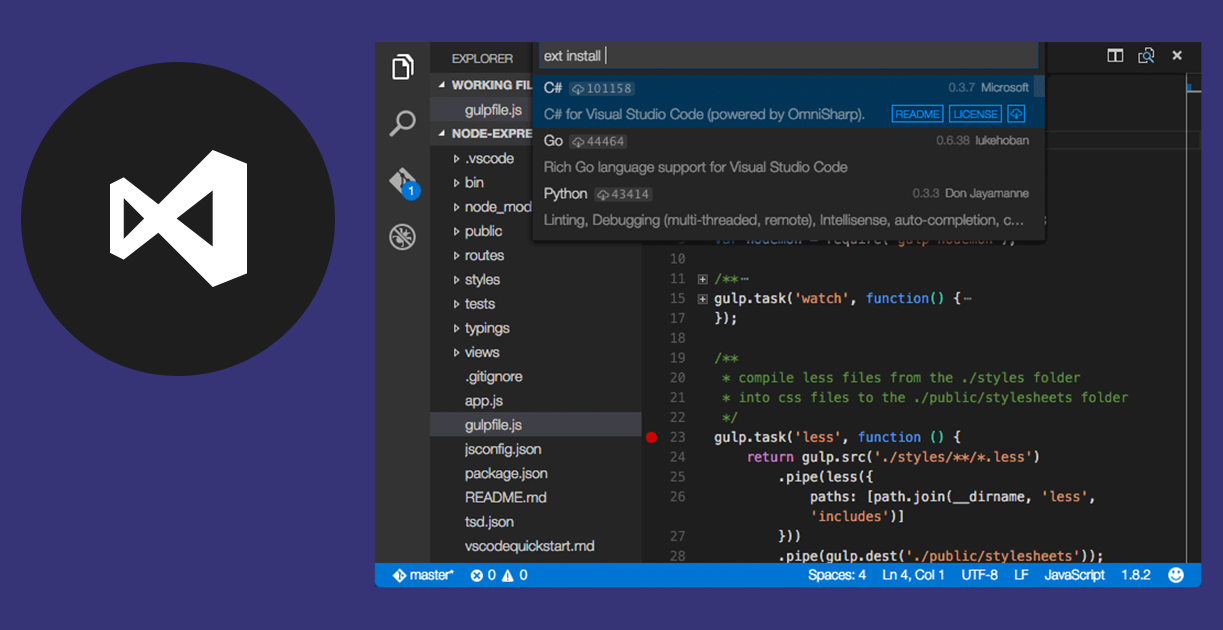
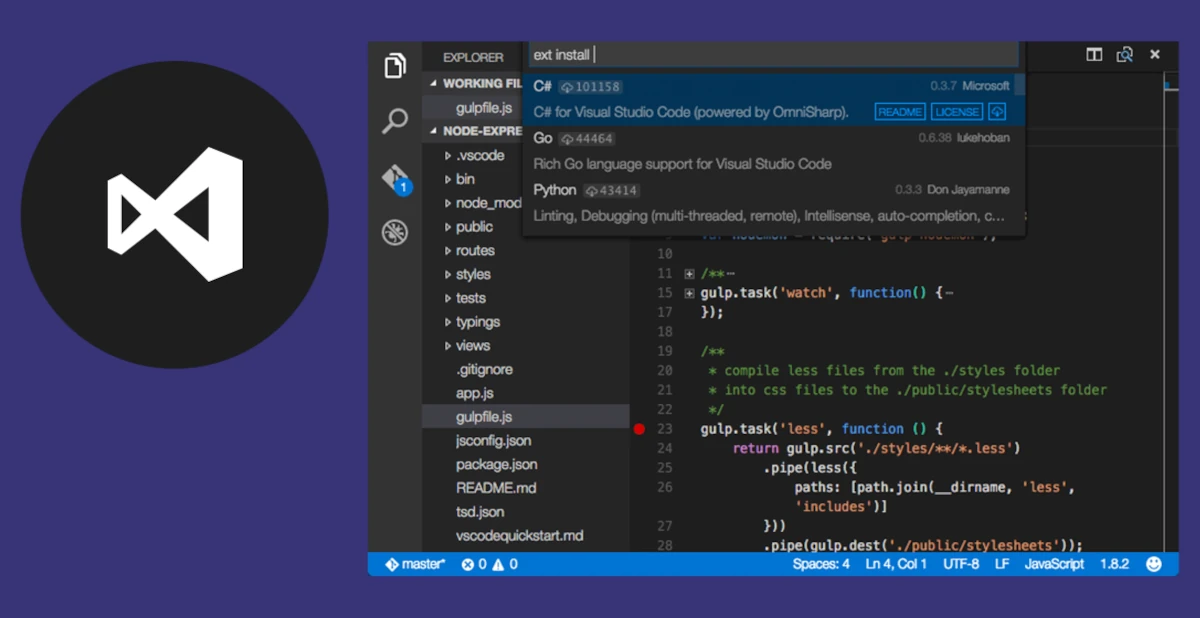
a

diff --git a/src/presentacion.html b/src/presentacion.html
@@ -50,10 +50,8 @@
 
           <p>
             <picture>
-              <img class="img" src="images/presentacion/vscode/vscode-1200w.webp" srcset="images/presentacion/vscode/vscode-480w.webp 500w, images/presentacion/vscode/vscode-800w.webp 900w, images/presentacion/vscode/vscode-1200w.webp 1300w" alt="la imagen de mi producto">
-
-           
-          </picture>
+              <img class="img" src="images/presentacion/vscode/vscode-1200w.webp" srcset="images/presentacion/vscode/vscode-480w.webp 480w, images/presentacion/vscode/vscode-800w.webp 800w, images/presentacion/vscode/vscode-1200w.webp 1200w" alt="la imagen de mi producto">
+           </picture>
             <!-- <img class="img" alt="vscode" src="images/presentacion/vscode.webp"> -->
           </p>
           <p>Visual Studio Code es un editor de código fuente desarrollado por Microsoft para Windows, Linux, macOS y
